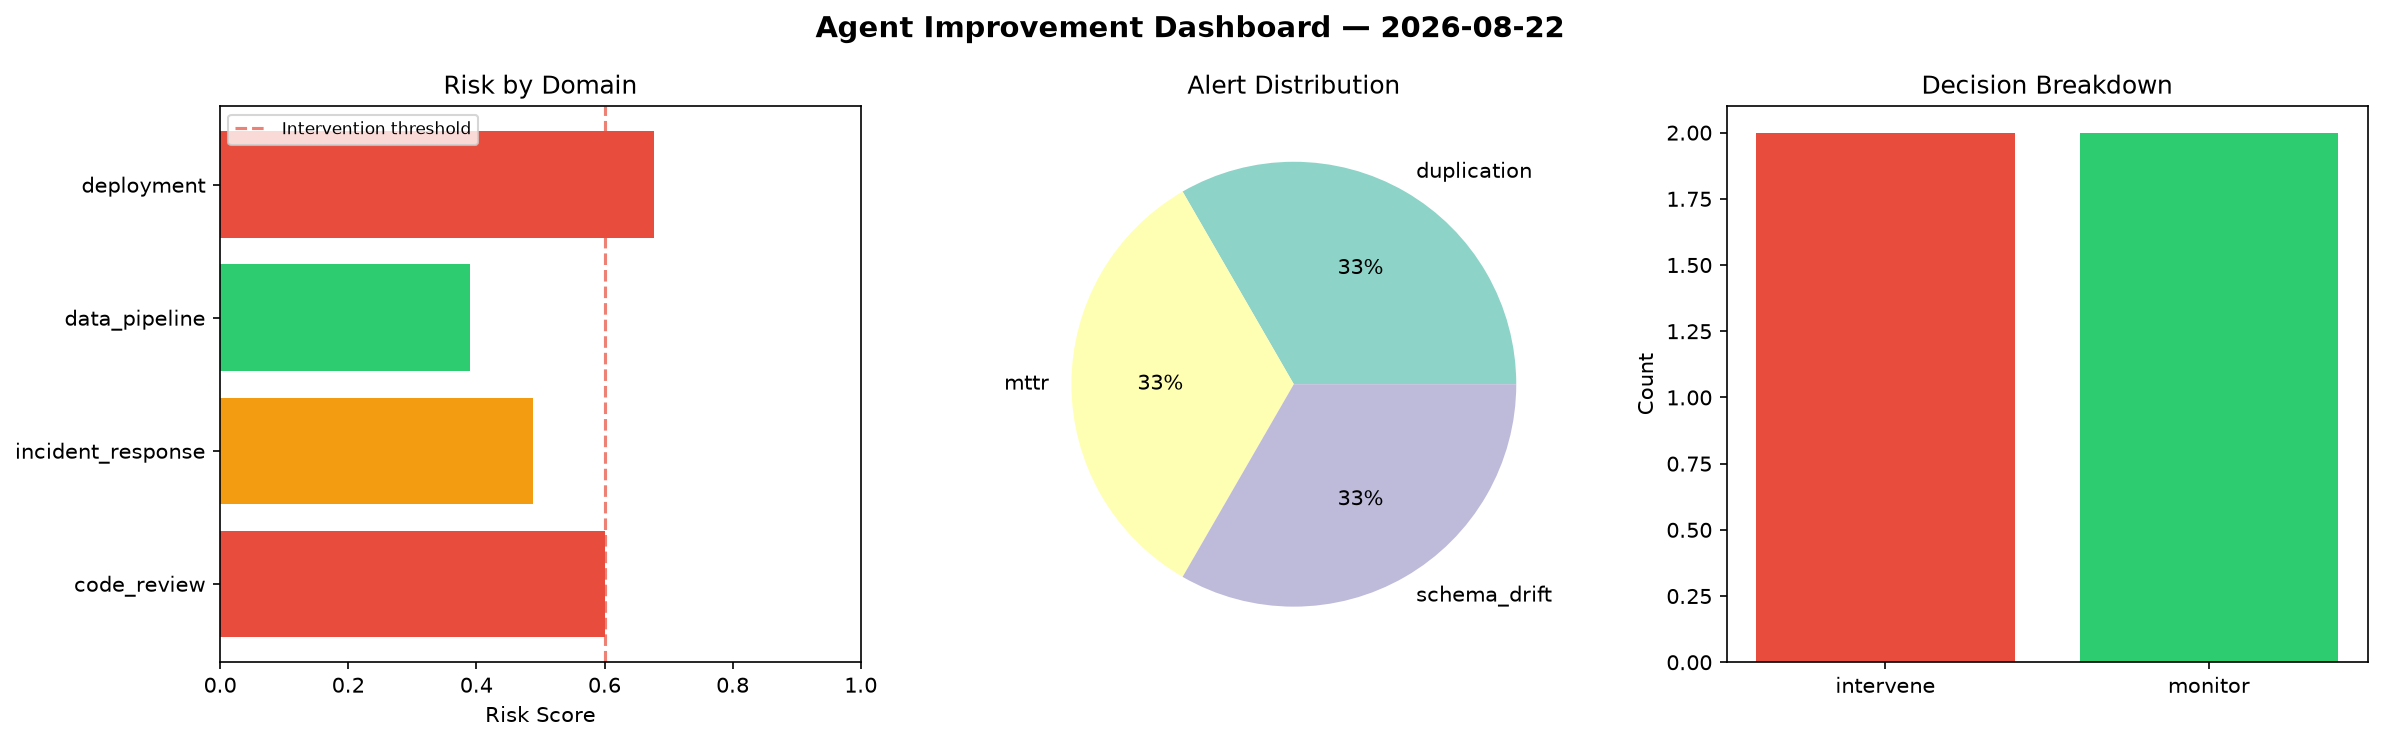
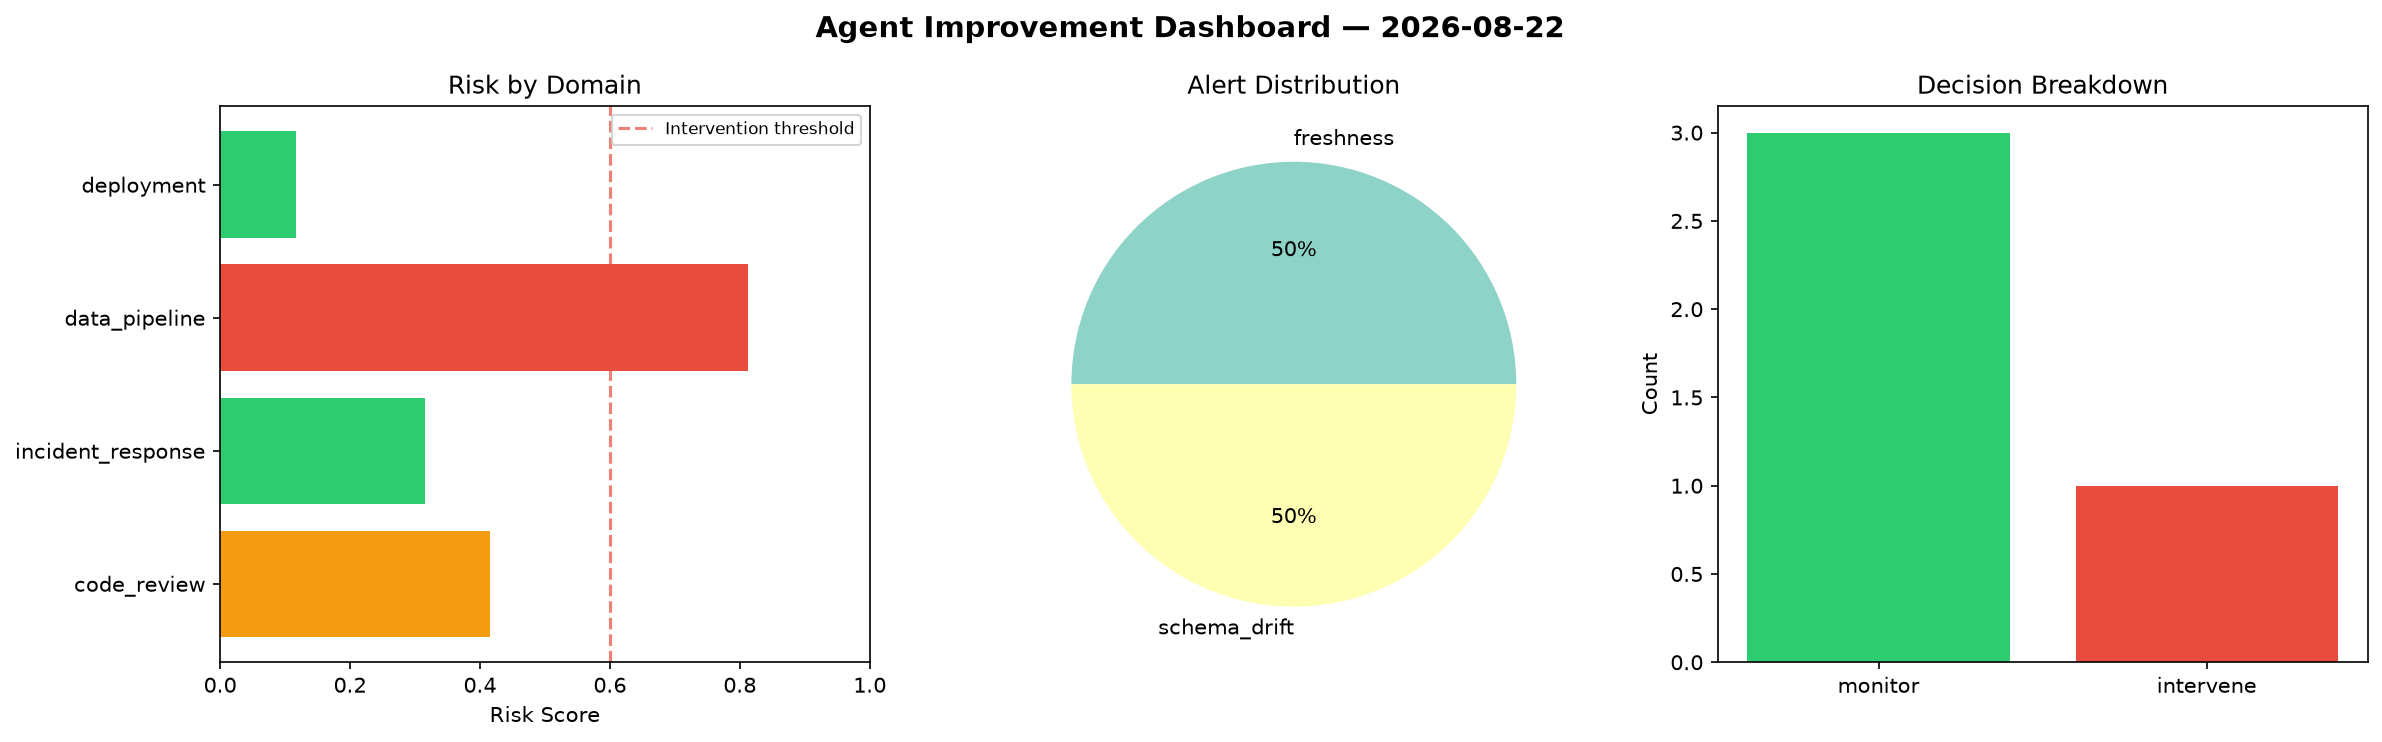
agent-improvement: daily cycle 2026-08-22T08:47

diff --git a/logs/2026-08-22.md b/logs/2026-08-22.md
@@ -1,6 +1,6 @@
 # Agent Improvement Report — 2026-08-22
 
-**Cycle ID:** `61da0fdf` | **Avg Risk:** 0.5389 | **Interventions:** 2/4
+**Cycle ID:** `824cb755` | **Avg Risk:** 0.4151 | **Interventions:** 1/4
 
 ![Dashboard](2026-08-22_dashboard.png)
 
@@ -10,18 +10,18 @@
 
 | Domain | Risk Score | Decision | Alerts |
 |--------|-----------|----------|--------|
-| code_review | 0.6004 | intervene | duplication |
-| incident_response | 0.4876 | monitor | mttr |
-| data_pipeline | 0.3908 | monitor | schema_drift |
-| deployment | 0.6768 | intervene | none |
+| code_review | 0.4148 | monitor | none |
+| incident_response | 0.3155 | monitor | none |
+| data_pipeline | 0.813 | intervene | freshness, schema_drift |
+| deployment | 0.1171 | monitor | none |
 
 ## Delta vs Yesterday
 
 | Domain | Today | Yesterday | Change |
 |--------|-------|-----------|--------|
-| code_review | 0.6004 | 0.3778 | 📈 58.9% |
-| incident_response | 0.4876 | 0.6189 | 📉 -21.2% |
-| data_pipeline | 0.3908 | 0.8405 | 📉 -53.5% |
-| deployment | 0.6768 | 0.7566 | 📉 -10.5% |
+| code_review | 0.4148 | 0.3778 | 📈 9.8% |
+| incident_response | 0.3155 | 0.6189 | 📉 -49.0% |
+| data_pipeline | 0.813 | 0.8405 | 📉 -3.3% |
+| deployment | 0.1171 | 0.7566 | 📉 -84.5% |
 
-**Refinement:** `{'adjustment': 'tighten_thresholds', 'trend': 'degrading', 'window': 4}`
+**Refinement:** `{'adjustment': 'maintain', 'trend': 'improving', 'window': 4}`
